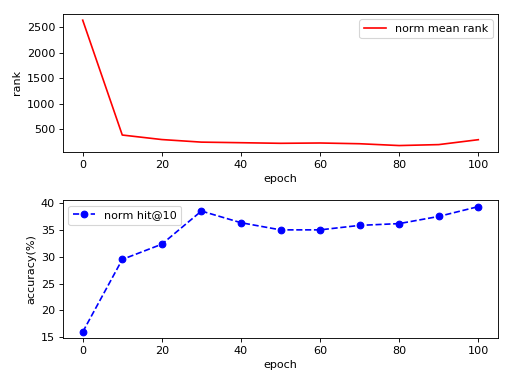
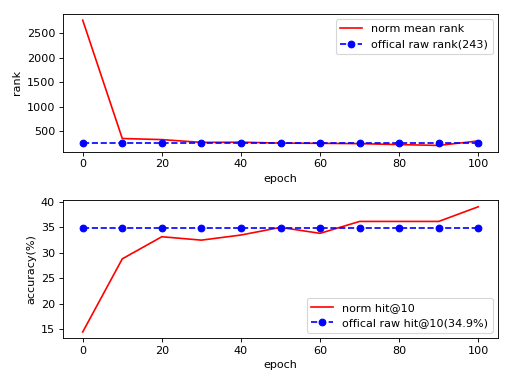
add offical compare

diff --git a/TransE.py b/TransE.py
@@ -469,6 +469,13 @@ def main():
 		#横坐标
 		X = list(range(0,10*len(mean_rank),10))
 
+		# offical
+		offical_mean_rank_raw=[243.0 for i in range(0,len(mean_rank))]
+		offical_mean_rank_filter=[125.0 for i in range(0,len(filter_mean_rank))]
+
+		offical_hit10_raw=[34.9 for i in range(0,len(hit10))]
+		offical_hit10_filter=[47.1 for i in range(0,len(filter_hit10))]
+
 		#0
 		plt.figure(figsize=(11, 11),dpi=80)
 		plt.title('loss')
@@ -485,13 +492,15 @@ def main():
 		#fg1_raw.set_title('mean rank')
 		fg1_raw.set_xlabel('epoch')
 		fg1_raw.set_ylabel('rank')
-		fg1_raw.plot(X,np.array(mean_rank),'-r',label='mean rank')
+		fg1_raw.plot(X,np.array(mean_rank),'-r',label='raw mean rank')
+		fg1_raw.plot(X,np.array(offical_mean_rank_raw),'b--o',label='offical(243)')
 		fg1_raw.legend()
 
 		#fg2_raw.set_title('hit@10')
 		fg2_raw.set_xlabel('epoch')
 		fg2_raw.set_ylabel('accuracy(%)')
-		fg2_raw.plot(X,np.array(hit10),'b--o',label='hit@10')
+		fg2_raw.plot(X,np.array(hit10),'-r',label='raw hit@10')
+		fg2_raw.plot(X,np.array(offical_hit10_raw),'b--o',label='offical(34.9%)')
 		fg2_raw.legend()
 
 		plt.tight_layout(pad=1, w_pad=1, h_pad=1)
@@ -505,12 +514,14 @@ def main():
 		fg1_filter.set_xlabel('epoch')
 		fg1_filter.set_ylabel('rank')
 		fg1_filter.plot(X,np.array(filter_mean_rank),'-r',label='filter mean rank')
+		fg1_filter.plot(X,np.array(offical_mean_rank_filter),'b--o',label='offical(125)')
 		fg1_filter.legend()
 
 		#fg2_filter.set_title('filter hit@10')
 		fg2_filter.set_xlabel('epoch')
 		fg2_filter.set_ylabel('accuracy(%)')
-		fg2_filter.plot(X,np.array(filter_hit10),'b--o',label='filter hit@10')
+		fg2_filter.plot(X,np.array(filter_hit10),'-r',label='filter hit@10')
+		fg2_filter.plot(X,np.array(offical_hit10_filter),'b--o',label='offical(47.1%)')
 		fg2_filter.legend()
 
 		plt.tight_layout(pad=1, w_pad=1, h_pad=1)
@@ -525,12 +536,14 @@ def main():
 		fg1_norm.set_xlabel('epoch')
 		fg1_norm.set_ylabel('rank')
 		fg1_norm.plot(X,np.array(norm_mean_rank),'-r',label='norm mean rank')
+		fg1_norm.plot(X,np.array(offical_mean_rank_raw),'b--o',label='offical raw rank(243)')
 		fg1_norm.legend()
 
 		#fg2_norm.set_title('norm hit@10')
 		fg2_norm.set_xlabel('epoch')
 		fg2_norm.set_ylabel('accuracy(%)')
-		fg2_norm.plot(X,np.array(norm_hit10),'b--o',label='norm hit@10')
+		fg2_norm.plot(X,np.array(norm_hit10),'-r',label='norm hit@10')
+		fg2_norm.plot(X,np.array(offical_hit10_raw),'b--o',label='offical raw hit@10(34.9%)')
 		fg2_norm.legend()
 
 		plt.tight_layout(pad=1, w_pad=1, h_pad=1)
@@ -545,12 +558,14 @@ def main():
 		fg1_norm_filter.set_xlabel('epoch')
 		fg1_norm_filter.set_ylabel('rank')
 		fg1_norm_filter.plot(X,np.array(norm_filter_mean_rank),'-r',label='norm filter mean rank')
+		fg1_norm_filter.plot(X,np.array(offical_mean_rank_filter),'b--o',label='offical filter rank(125)')
 		fg1_norm_filter.legend()
 
 		#fg2_norm_filter.set_title('norm filter hit@10')
 		fg2_norm_filter.set_xlabel('epoch')
 		fg2_norm_filter.set_ylabel('accuracy(%)')
-		fg2_norm_filter.plot(X,np.array(norm_filter_hit10),'b--o',label='norm filter hit@10')
+		fg2_norm_filter.plot(X,np.array(norm_filter_hit10),'-r',label='norm filter hit@10')
+		fg2_norm_filter.plot(X,np.array(offical_hit10_filter),'b--o',label='offical filter hit@10(47.1%)')
 		fg2_norm_filter.legend()
 
 		plt.tight_layout(pad=1, w_pad=1, h_pad=1)
